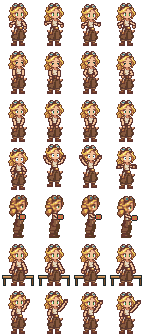
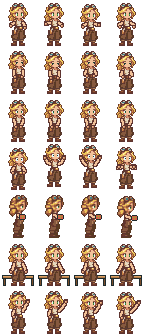
Freya: thicker arms, no stray fists at her waist in heart events
tools/poses.py: rig options hand_boxes (take the walk's resting fists off
and carry the clothes up from below) and thick_arms (arms keep their width
held out sideways: square-stamped core, outlined all round). Freya's
action and event sheets rebuilt with both.

Claude-Session: https://claude.ai/code/session_013NFuzH4fkTFkF6ZrQzp2x8

diff --git a/tools/poses.py b/tools/poses.py
@@ -47,7 +47,7 @@ def stamp(img, pts, r, c):
                 put(img, x + dx, y + dy, c)
 
 
-def draw_arm(img, shoulder, hand, elbow_side, pal, width=2, elbow=None):
+def draw_arm(img, shoulder, hand, elbow_side, pal, width=2, elbow=None, thick=False):
     """Shoulder to elbow to hand. elbow_side pushes the elbow sideways (+x or -x) so the arm
     bends naturally. Sleeve two pixels wide inside a one-pixel outline, mitten hand."""
     sx, sy = shoulder
@@ -64,12 +64,38 @@ def draw_arm(img, shoulder, hand, elbow_side, pal, width=2, elbow=None):
     # a sleeve four pixels wide: outline, two pixels of cloth (lit on the left, the light
     # comes from the top left), outline
     layer = np.zeros_like(img)
-    for (x, y) in upper + lower:
+    if thick:
+        # the arm keeps its width whichever way it points: a width-by-width square stamped
+        # along the bones, outlined all round; lit along its top (arms held out sideways) or
+        # its left (arms hanging), the light coming from the top left
+        core = np.zeros(img.shape[:2], bool)
+        for (x, y) in upper + lower:
+            for j in range(width):
+                for i in range(width):
+                    if 0 <= y + j < core.shape[0] and 0 <= x + i < core.shape[1]:
+                        core[y + j, x + i] = True
+        ring = np.zeros_like(core)
+        for dy in (-1, 0, 1):
+            for dx in (-1, 0, 1):
+                ring |= np.roll(np.roll(core, dy, 0), dx, 1)
+        ring &= ~core
+        for seg in (upper, lower):
+            (ax, ay), (bx, by) = seg[0], seg[-1]
+            flat = abs(bx - ax) > abs(by - ay)
+            for (x, y) in seg:
+                for j in range(width):
+                    for i in range(width):
+                        yy, xx = y + j, x + i
+                        if 0 <= yy < core.shape[0] and 0 <= xx < core.shape[1]:
+                            lit = (yy == 0 or not core[yy - 1, xx]) if flat else (xx == 0 or not core[yy, xx - 1])
+                            layer[yy, xx] = pal["sleeve_hi"] if lit else pal["sleeve"]
+        layer[ring] = pal["line"]
+    for (x, y) in (upper + lower) if not thick else ():
         for dx in range(-1, width + 1):
             put(layer, x + dx, y - 1, pal["line"])
             put(layer, x + dx, y + 1, pal["line"])
             put(layer, x + dx, y, pal["line"])
-    for (x, y) in upper + lower:
+    for (x, y) in (upper + lower) if not thick else ():
         put(layer, x, y, pal["sleeve_hi"])
         for dx in range(1, width):
             put(layer, x + dx, y, pal["sleeve"])
@@ -1166,6 +1192,10 @@ RIGS = {
         u=dict(arms=[(5, 8, 21, 27), (4, 7, 28, 30), (16, 19, 21, 27), (17, 20, 28, 30)], L=(7, 22), R=(16, 22)),
         l=dict(N=(11, 22), F=(12, 22)),
         hip=dict(d=41, u=41, l=40), u_center_rule=True,
+        # (24 Nov) the walk's fists at her waist come off with the arms, and her arms keep their width when
+        # held out sideways
+        hand_boxes=dict(d=[(5, 8, 30, 32), (17, 20, 30, 32)], u=[(4, 7, 31, 32), (17, 20, 31, 32)]),
+        thick_arms=True,
         sleep=dict(eyes=[(10, 13, 2, 3), (15, 13, 2, 3)], skin="#f2c29a", lash="#5e3430",
                    neck=20, top=27),
     ),
@@ -1510,6 +1540,18 @@ def view_body(walk, rig_dir, name, view, rig):
         fill = rig["fill_tone"]
     body = body_without_arms(cell, rig[view]["arms"], hexc(rig["pal"]["line"]), fill,
                              rig.get("fill_span"))
+    # the walk's resting fists (drawn over the clothes at the waist) come off too: the clothes
+    # under each box are carried straight up from the row below it
+    hb = rig.get("hand_boxes", {}).get(view, [])
+    for (x0, x1, y0, y1) in hb:
+        body[y0:y1 + 1, x0:x1 + 1] = 0
+        for y in range(y0, y1 + 1):
+            body[y, x0:x1 + 1] = body[y1 + 1, x0:x1 + 1]
+    for y in sorted({y for (_, _, y0, y1) in hb for y in range(y0, y1 + 1)}):
+        xs = np.where(body[y, :, 3] > 0)[0]
+        if len(xs):
+            body[y, xs.min()] = hexc(rig["pal"]["line"])
+            body[y, xs.max()] = hexc(rig["pal"]["line"])
     # an edge of the clothes carried straight up from a row below (Job's overalls run up
     # his sides behind the arms)
     for (x0, x1, y0, y1, src) in rig.get("carry_up", {}).get(view, []):
@@ -1566,7 +1608,7 @@ def render(walk, rig_dir, name, act, view):
                 else:
                     in_front = v == "u" and dy > -4 and abs(dx) < 4
                 target = arms_back if (in_front or hidden) else arms_front
-                draw_arm(target, sh, hd, elbow, pal, width=rig.get("arm_w", 2))
+                draw_arm(target, sh, hd, elbow, pal, width=rig.get("arm_w", 2), thick=rig.get("thick_arms", False))
                 if v == "u" and (in_front or hidden) and rig.get("keep_hidden_sleeve"):
                     # a wide sleeve still hangs at the side when its hand is out of sight in
                     # front: the standing frame's own sleeve is put back on that side
@@ -1584,7 +1626,7 @@ def render(walk, rig_dir, name, act, view):
             if "F" in spec:
                 dx, dy = spec["F"]
                 hands["F"] = (fx + OX + dx, fy + bob + dy)
-                draw_arm(arms_back, (fx + OX, fy + bob), hands["F"], -1, pal, width=rig.get("arm_w", 2))
+                draw_arm(arms_back, (fx + OX, fy + bob), hands["F"], -1, pal, width=rig.get("arm_w", 2), thick=rig.get("thick_arms", False))
                 arms_back = darken(arms_back)
             dx, dy = spec["N"]
             if dy >= 6:
@@ -1592,7 +1634,7 @@ def render(walk, rig_dir, name, act, view):
             hands["N"] = (nx + OX + dx, ny + bob + dy)
             el = spec.get("N_elbow")
             el = (nx + OX + el[0], ny + bob + el[1]) if el else None
-            draw_arm(arms_front, (nx + OX, ny + bob), hands["N"], 1 if dx >= 0 else -1, pal, width=rig.get("arm_w", 2), elbow=el)
+            draw_arm(arms_front, (nx + OX, ny + bob), hands["N"], 1 if dx >= 0 else -1, pal, width=rig.get("arm_w", 2), elbow=el, thick=rig.get("thick_arms", False))
         for (pname, hand, pdx, pdy, layer) in spec.get("props", []):
             hx, hy = hands[hand]
             target = front_layer if layer == "front" else back_layer
